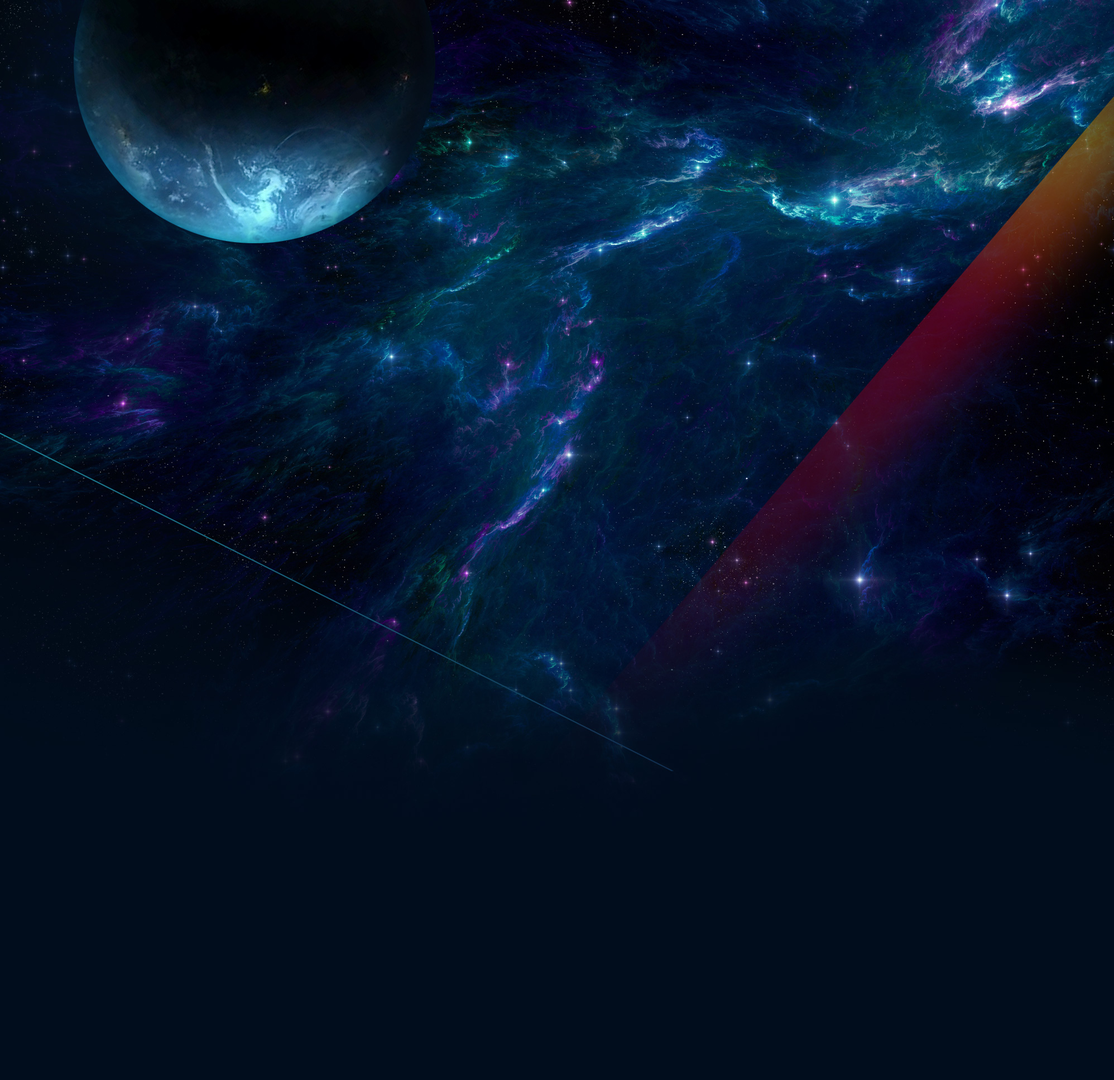
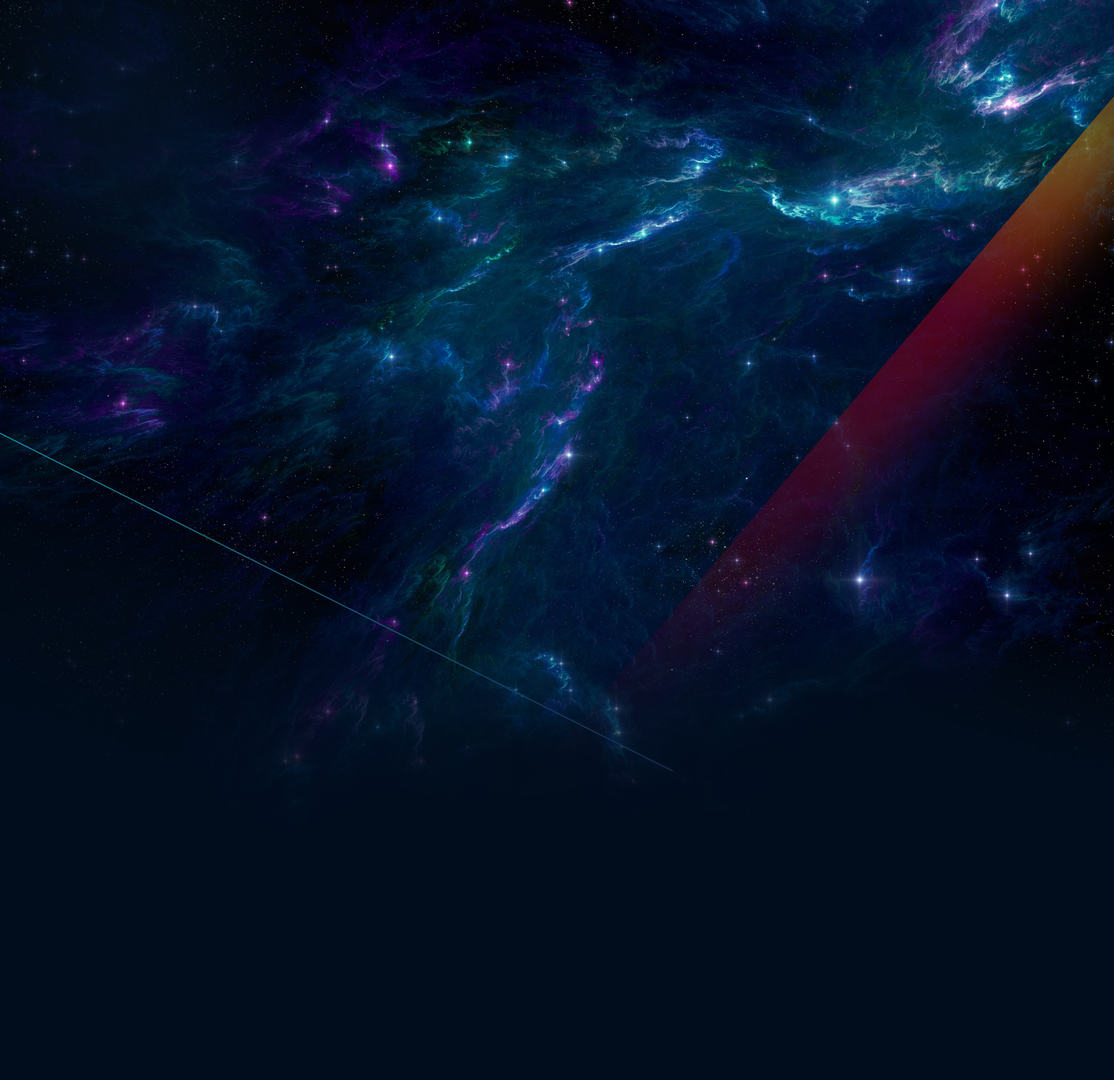
Выполнены правки

Changed region(s): [[0.0621, 0.0, 0.4038, 0.2479], [0.0932, 0.0, 0.1864, 0.062]]

diff --git a/css/style.css b/css/style.css
@@ -60,6 +60,10 @@ img {
   margin: 0 auto;
 }
 
+.hidden-img {
+  opacity: 0;
+}
+
 .accent-text {
   color: #00bada !important;
 }
@@ -93,7 +97,18 @@ img {
 }
 
 .main { 
-  background: url(../img/main-bg.jpg) center center no-repeat;
+  background: url(../img/main-bg.jpg) top center no-repeat;
+  background-size: cover;
+  position: relative;
+}
+.main::after {
+  position: absolute;
+  content: '';
+  width: 550px;
+  height: 550px;
+  background: url(../img/big-moon.png) center no-repeat;
+  top: -25%;
+  left: 0;
   background-size: cover;
 }
 .header {
@@ -561,7 +576,10 @@ img {
   background-size: cover;
   position: relative;
   z-index: 3;
-  min-height: 1800px;
+  min-height: 1250px;
+}
+.applications-container {
+  position: relative;
 }
 .applications-img {
   position: absolute;
@@ -670,7 +688,6 @@ img {
 }
 .clients {
   position: relative;
-  margin-top: -458px;
 }
 .clients::before {
   position: absolute;
@@ -1037,7 +1054,7 @@ footer::after {
   background: url(../img/services-main-bg.jpg) center no-repeat;
   background-size: cover;
   min-height: 850px;
-  padding-top: 190px;
+  padding-top: 320px;
   position: relative;
   overflow: hidden;
 }
@@ -1793,7 +1810,7 @@ footer::after {
     min-height: 1500px;
   }
   .applications-img {
-    top: 63%;
+    top: 337%;
     width: 70%;
   }
   .applications-description {
@@ -1824,6 +1841,9 @@ footer::after {
 @media screen and (max-width: 992px) {
   body p {
     font-size: 28px !important;
+  }
+  .main::after {
+    top: -31%;
   }
   .to-top__text {
     font-size: 14px !important;
@@ -1983,6 +2003,9 @@ footer::after {
   }
 }
 @media screen and (max-width: 768px) {
+  .main::after {
+    top: -46%;
+  }
   .main-block {
     min-height: 1200px;
   }
@@ -2040,7 +2063,7 @@ footer::after {
     min-height: 1300px;
   }
   .applications-img {
-    top: 60%;
+    top: 360%;
   }
   .applications-form {
     width: 90%;
@@ -2113,9 +2136,6 @@ footer::after {
   }
   .services-block {
     width: 90%;
-  }
-  .applications-img {
-    top: 64%;
   }
   .applications-description {
     width: 100%;
@@ -2291,9 +2311,6 @@ footer::after {
   .applications {
     min-height: 1200px;
   }
-  .applications-img {
-    top: 66%;
-  }
   .applications-header::after {
     top: 83px;
   }
@@ -2335,6 +2352,11 @@ footer::after {
   }
 }
 @media screen and (max-width: 500px) {
+  .main::after {
+    width: 300px;
+    height: 300px;
+    top: -31%;
+  }
   .main-block {
     min-height: 1000px;
   }
@@ -2392,7 +2414,7 @@ footer::after {
     min-height: 1090px;
   }
   .applications-img {
-    top: 69%;
+    top: 330%;
   }
   .applications-header {
     font-size: 45px;

diff --git a/css/services.css b/css/services.css
@@ -1,3 +1,9 @@
+.main::after {
+  display: none;
+}
+.second-page__main {
+  padding-top: 190px;
+}
 .services-header {
   z-index: 2;
 }
@@ -276,10 +282,19 @@
   padding-left: 50px;
 }
 .design-section .description {
-  background: url(../img/services-design-bg.jpg) top center no-repeat;
+  background: url(../img/services-design-bg.jpg) top center no-repeat,
+              url(../img/shadow.png) top center no-repeat;
   background-size: cover;
   width: 100%;
-  padding-left: 0;
+  position: relative;
+}
+.description-background {
+  position: absolute;
+  left: 0;
+  right: 0;
+  top: 0;
+  bottom: 0;
+  background: rgba(1,13,29,.6);
 }
 .description__inner {
   padding-left: 50px;
@@ -606,7 +621,7 @@
     min-height: 1600px;
   }
   .services-applications .applications-img {
-    top: 63%;
+    top: 360%;
   }
 }
 @media screen and (max-width: 992px) {
@@ -776,13 +791,16 @@
   .about-company {
     margin-bottom: 50px;
   }
+  .services-applications .applications-img {
+    top: 385%;
+  }
 }
 @media screen and (max-width: 600px) {
   .services-applications {
     min-height: 1175px;
   }
   .services-applications .applications-img {
-    top: 71%;
+    top: 360%;
   }
   .price-block {
     flex-direction: column;
@@ -887,7 +905,7 @@
     min-height: 980px;
   }
   .services-applications .applications-img {
-    top: 76%;
+    top: 330%;
   }
   .description-item__title {
     font-size: 24px;

diff --git a/index.html b/index.html
@@ -91,7 +91,7 @@
     </section>
     <section class="main-block container">
       <img class="planet wow animate__animated animate__fadeInBottomRight animate__delay-2s" src="img/planet.png" alt="Planet">
-      <div class="main-block__image wow animate__animated animate__rotateInDownLeft animate__delay-1s">
+      <div class="hidden-img main-block__image wow animate__animated animate__rotateInDownLeft animate__delay-1s">
         <img class="main-astronaut " src="img/astronaut.png" alt="Astronaut">
         <div class="main-astronaut-phone">
           <a href="tel:884682250950">
@@ -250,8 +250,8 @@
     </div>
   </section>
   <section class="applications">
-    <img src="img/rocket.png" alt="Rocket" class="applications-img animate__rotateIn wow animate__delay-1s animate__animated">
-    <div class="container">
+    <div class="container applications-container">
+      <img src="img/rocket.png" alt="Rocket" class="applications-img animate__rotateIn wow animate__delay-1s animate__animated">
       <div class="applications-description">
         <h2 class="applications-header section-header section-header__left">
           <span class="yellow">ОТПРАВИТЬ</span><span class="blue">ЗАЯВКУ</span>

diff --git a/services.html b/services.html
@@ -446,6 +446,7 @@
       </div>
     </div>
     <div class="description">
+      <div class="description-background"></div>
       <div class="container description__inner">
         <div id="design-logo-block" class="logo-design description-item">
           <img class="description-img" src="img/logo-design.png" alt="Logo">
@@ -591,8 +592,8 @@
     </div>
   </section>
   <section class="applications services-applications">
-    <img src="img/rocket.png" alt="Rocket" class="applications-img animate__rotateIn wow animate__delay-1s animate__animated">
-    <div class="container">
+    <div class="container applications-container">
+      <img src="img/rocket.png" alt="Rocket" class="applications-img animate__rotateIn wow animate__delay-1s animate__animated">
       <div class="applications-description">
         <h2 class="applications-header section-header section-header__left">
           <span class="yellow">ОТПРАВИТЬ</span><span class="blue">ЗАЯВКУ</span>

diff --git a/css/portfolio_detail.css b/css/portfolio_detail.css
@@ -1,3 +1,6 @@
+.main::after {
+  display: none;
+}
 .portfolio-page {
   min-height: 1015px;
 }
@@ -281,8 +284,35 @@
 }
 @media screen and (min-width: 2800px) {
   .work-page__short-desc {
-    width: 50%;
+    width: 57%;
   }  
+  .work-page__description {
+    width: 32%;
+  }
+}
+@media screen and (min-width: 2200px) {
+  .portfolio-section__text-wrap {
+    min-height: 1400px;
+  }  
+  .work-page__wrapper {
+    margin-bottom: -890px;
+  }
+}
+@media screen and (min-width: 2500px) {
+  .portfolio-section__text-wrap {
+    min-height: 1700px;
+  }  
+  .work-page__wrapper {
+    margin-bottom: -1150px;
+  }
+}
+@media screen and (min-width: 2900px) {
+  .portfolio-section__text-wrap {
+    min-height: 2100px;
+  }  
+  .work-page__wrapper {
+    margin-bottom: -1345px;
+  }
 }
 @media screen and (max-width: 1850px) {
   .short-desc {

diff --git a/portfolio.html b/portfolio.html
@@ -298,8 +298,8 @@
     </div>
   </section>
   <section class="applications apps-applications">
-    <img src="img/rocket.png" alt="Rocket" class="applications-img animate__rotateIn wow animate__delay-1s animate__animated">
-    <div class="container">
+    <div class="container applications-container">
+      <img src="img/rocket.png" alt="Rocket" class="applications-img animate__rotateIn wow animate__delay-1s animate__animated">
       <div class="applications-description">
         <h2 class="applications-header section-header section-header__left">
           <span class="yellow">ОТПРАВИТЬ</span><span class="blue">ЗАЯВКУ</span>

diff --git a/portfolio_detail.html b/portfolio_detail.html
@@ -201,8 +201,8 @@
     </div>
   </section>
   <section class="applications apps-applications">
-    <img src="img/rocket.png" alt="Rocket" class="applications-img animate__rotateIn wow animate__delay-1s animate__animated">
-    <div class="container">
+    <div class="container applications-container">
+      <img src="img/rocket.png" alt="Rocket" class="applications-img animate__rotateIn wow animate__delay-1s animate__animated">
       <div class="applications-description">
         <h2 class="applications-header section-header section-header__left">
           <span class="yellow">ОТПРАВИТЬ</span><span class="blue">ЗАЯВКУ</span>

diff --git a/js/main.js b/js/main.js
@@ -1,3 +1,7 @@
+window.onload = () => {
+  const mainImage = document.querySelector('.main-block__image');
+  mainImage.classList.remove('hidden-img');
+}
 new WOW({
   mobile: false,
 }).init();

diff --git a/css/portfolio.css b/css/portfolio.css
@@ -1,3 +1,6 @@
+.main::after {
+  display: none;
+}
 .portfolio-page {
   min-height: 790px;
 }
